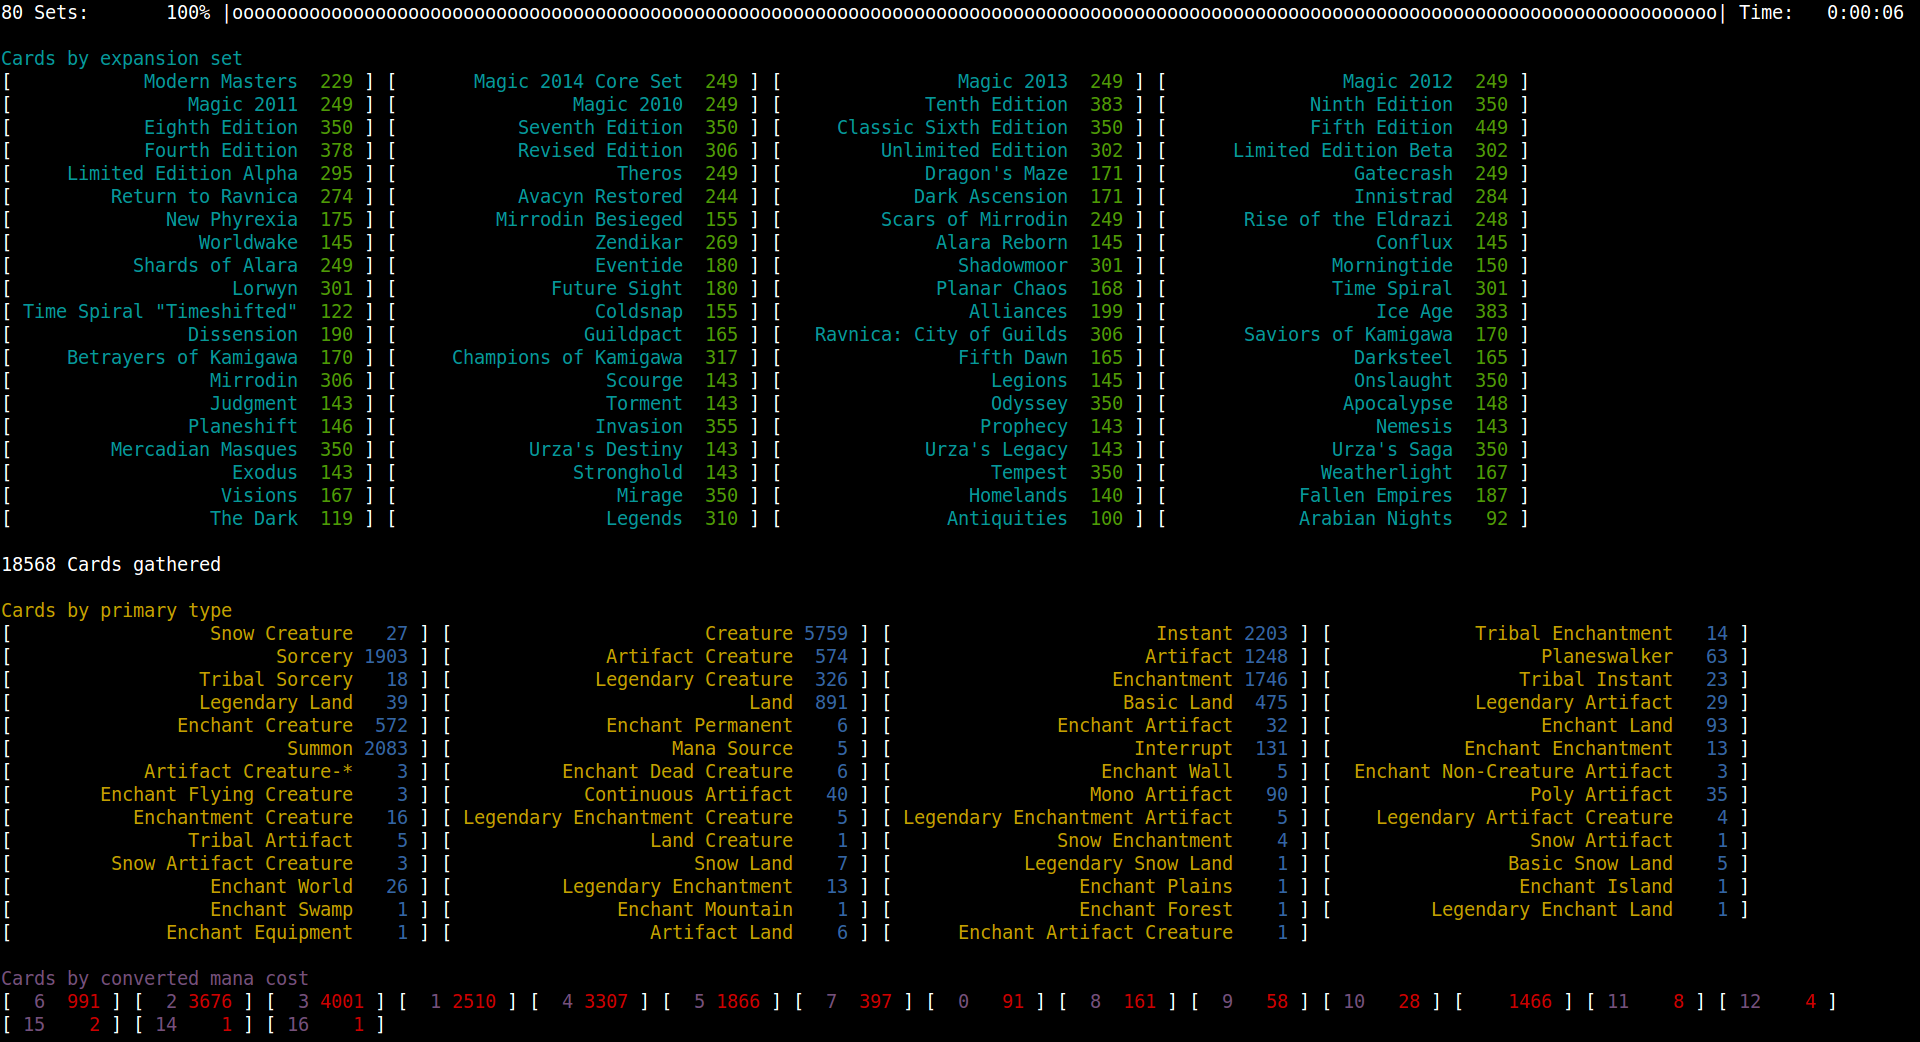
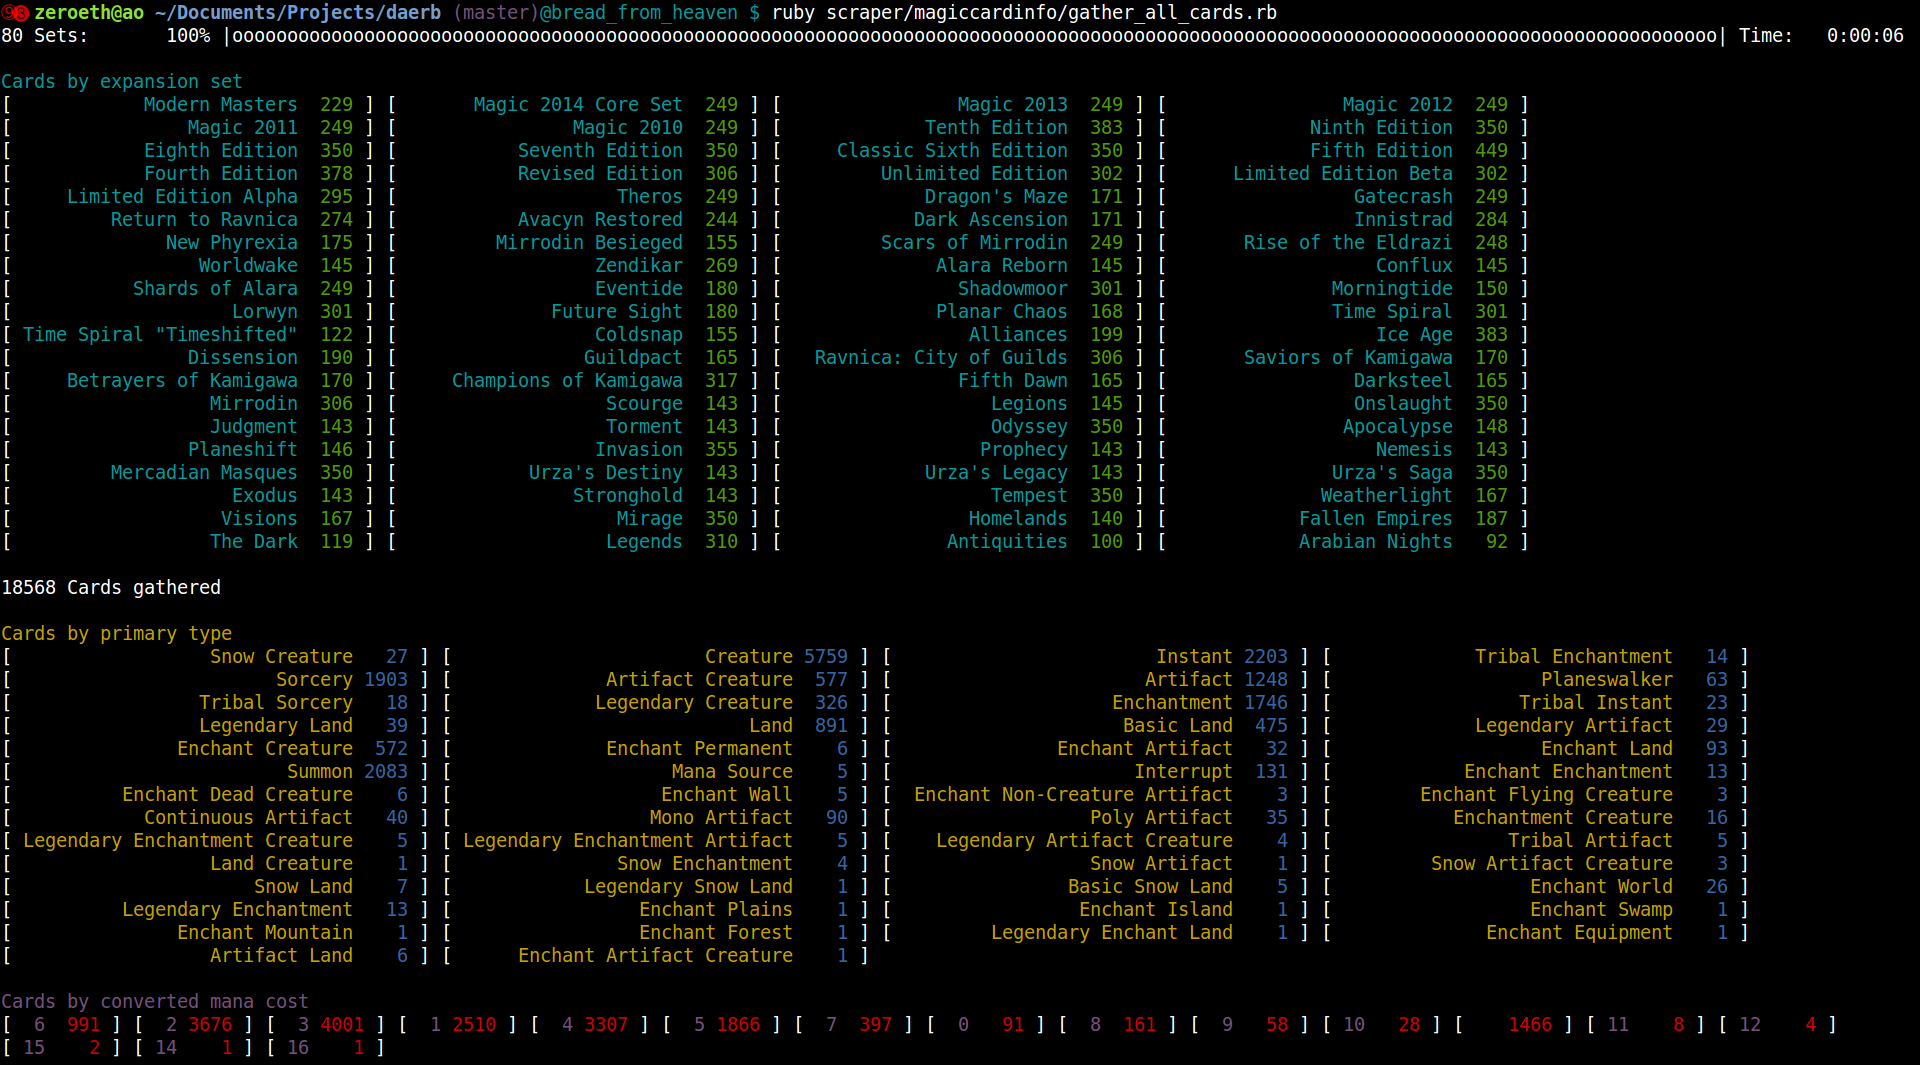
Fix detection of rare toughness format (1/7-*)

diff --git a/spec/card_spec.rb b/spec/card_spec.rb
@@ -212,6 +212,14 @@ describe Daerb::InfoCard do
         card.toughness.should == "1"
       end
 
+      it 'handles numbers minus star' do
+        card.parse_type_column "Artifact Creature */7-*"
+        card.primary_type.should == "Artifact Creature"
+        card.types.should == ["Artifact Creature"]
+        card.power.should == "*"
+        card.toughness.should == "7-*"
+      end
+
       it 'handles negative power and toughness'
       it 'handles combination power and toughness' # the strange ones
     end

diff --git a/daerb_drac.rb b/daerb_drac.rb
@@ -59,7 +59,7 @@ module Daerb
     def parse_type_column(string)
       # Extract power and toughness
 
-      single_match = /([+-]?\d{1,2}|\d*[-+]*\*)/
+      single_match = /(\d*[-+]*\*|[+-]?\d{1,2})/
       dual_match   = /\s#{single_match}\/#{single_match}/
       numbers      = string.match dual_match
       string.gsub! dual_match, ''
